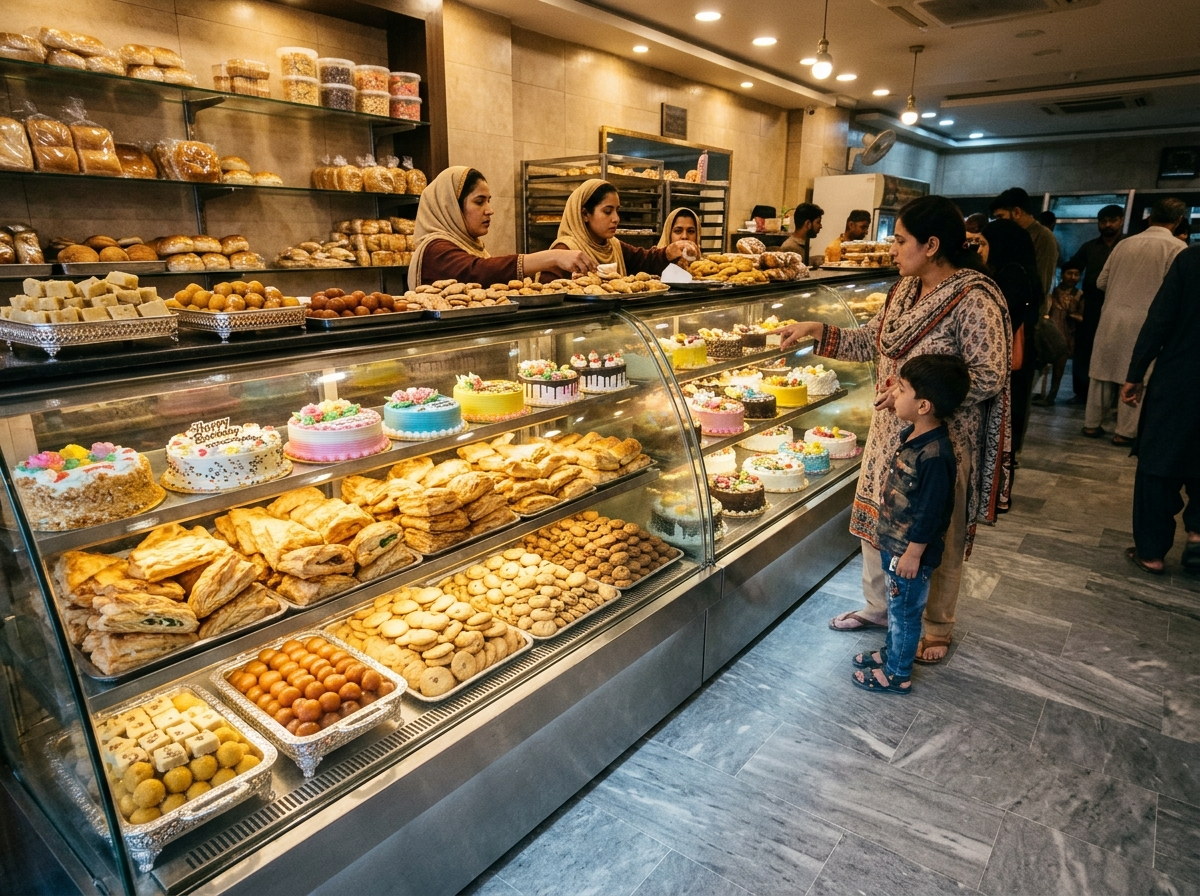
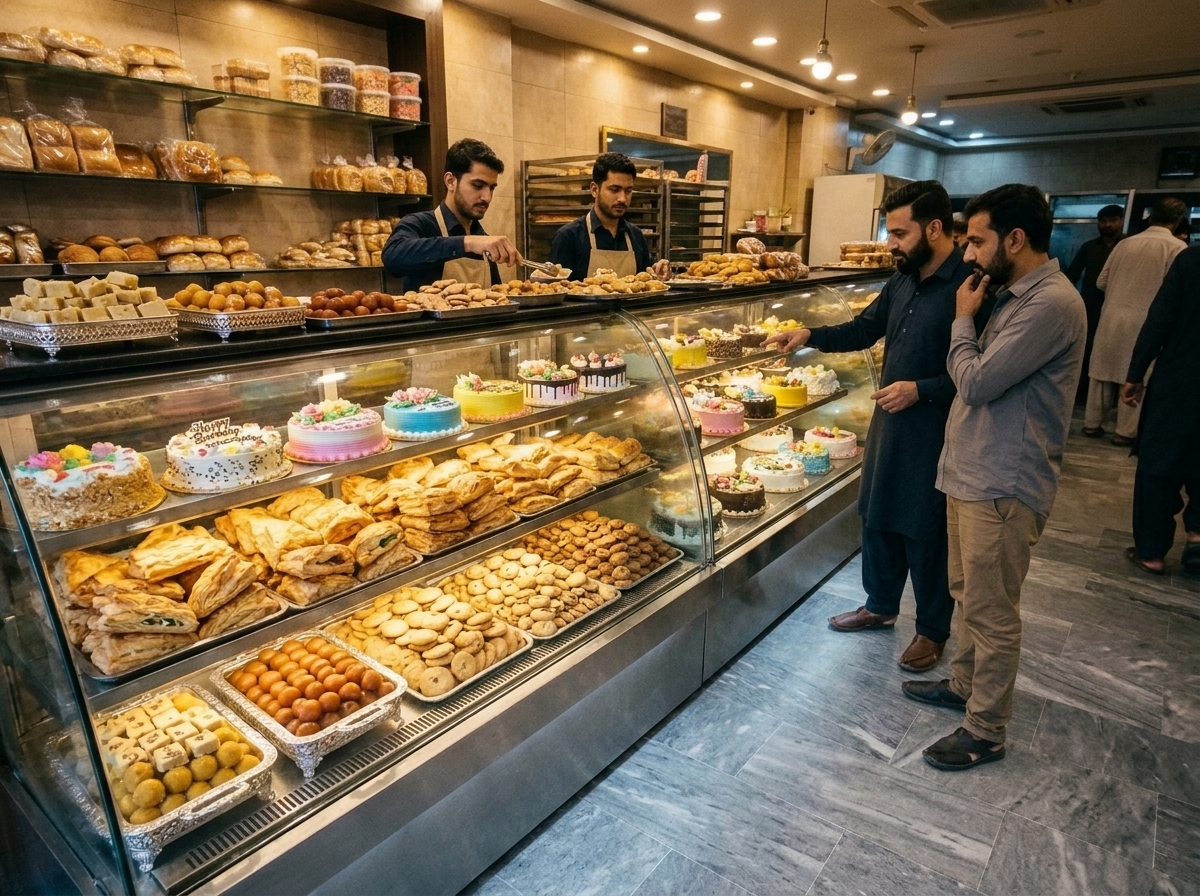
feat: update business information and contact details
- Update business address to include "Lari Ada"
- Add secondary telephone contact
- Enhance business description with historical context
- Update hero image and Google Maps URL

diff --git a/src/App.tsx b/src/App.tsx
@@ -352,7 +352,7 @@ export default function App() {
                     <ArrowRight className="w-4 h-4" aria-hidden="true" />
                   </a>
                   <a
-                    href={`tel:${BAKERY_INFO.whatsappDigits}`}
+                    href={`tel:+${BAKERY_INFO.whatsappDigits}`}
                     className="inline-flex items-center gap-2 bg-white dark:bg-[#1D1916] hover:bg-[#F3F1ED] dark:hover:bg-[#26211D] text-[#1C1815] dark:text-[#F5F2EC] border border-[#E5E1DA] dark:border-[#342D28] text-sm font-medium px-5 py-3 rounded-lg transition-colors duration-150 whitespace-nowrap shrink-0"
                   >
                     <Phone className="w-4 h-4 text-[#1B4332] dark:text-[#74C69D]" aria-hidden="true" />
@@ -372,25 +372,25 @@ export default function App() {
 
             <div className="mt-10 pt-8 border-t border-[#E5E1DA] dark:border-[#342D28] grid grid-cols-1 sm:grid-cols-2 lg:grid-cols-4 gap-6">
               <div>
-                <p className="text-xs font-medium text-[#57534E] dark:text-[#D6D3D1]">Daily Schedule</p>
+                <p className="text-xs font-medium text-[#57534E] dark:text-[#D6D3D1]">Sialkot Heritage</p>
                 <p className="text-sm font-semibold text-[#1C1815] dark:text-[#F5F2EC] mt-1">
-                  Fresh Batches All Day
+                  30+ Years · Three Decades Old Name
                 </p>
               </div>
               <div>
-                <p className="text-xs font-medium text-[#57534E] dark:text-[#D6D3D1]">Fulfillment</p>
+                <p className="text-xs font-medium text-[#57534E] dark:text-[#D6D3D1]">Direct Ordering</p>
                 <p className="text-sm font-semibold text-[#1C1815] dark:text-[#F5F2EC] mt-1">
-                  Takeout &amp; Sialkot Delivery
+                  WhatsApp Direct · Zero App Markup
                 </p>
               </div>
               <div>
-                <p className="text-xs font-medium text-[#57534E] dark:text-[#D6D3D1]">Popular Specialties</p>
+                <p className="text-xs font-medium text-[#57534E] dark:text-[#D6D3D1]">Location Landmark</p>
                 <p className="text-sm font-semibold text-[#1C1815] dark:text-[#F5F2EC] mt-1">
-                  Cakes, Rusk, Halwa Puri &amp; Pizza
+                  Lari Ada, Kashmir Road, Sialkot
                 </p>
               </div>
               <div>
-                <p className="text-xs font-medium text-[#57534E] dark:text-[#D6D3D1]">Direct WhatsApp Desk</p>
+                <p className="text-xs font-medium text-[#57534E] dark:text-[#D6D3D1]">Direct Phone &amp; WhatsApp</p>
                 <p className="text-sm font-semibold text-[#1C1815] dark:text-[#F5F2EC] mt-1 tabular-nums">
                   {BAKERY_INFO.phoneDisplay}
                 </p>
@@ -623,15 +623,15 @@ export default function App() {
               <div className="lg:col-span-7 flex flex-col justify-center gap-6">
                 <div className="space-y-2">
                   <p className="text-xs font-medium text-[#1B4332] dark:text-[#74C69D]">
-                    Daily Kitchen &amp; Bakery Craft · Kotli Behram
+                    About Hot Cake Bakers · Three Decades in Sialkot
                   </p>
                   <h2 className="font-display text-3xl font-semibold text-[#1C1815] dark:text-[#F5F2EC] text-balance">
-                    From morning Halwa Puri to midnight celebrations.
+                    A three-decades-old Sialkot bakery name on Kashmir Road.
                   </h2>
                 </div>
 
                 <p className="text-base text-[#44403C] dark:text-[#D6D3D1] leading-relaxed">
-                  Situated on Kashmir Road near Lari Adda in Kotli Behram, Hot Cake Bakers pairs traditional Sialkoti breakfast and mithai craftsmanship with fresh evening baking for takeout and home delivery.
+                  Serving families around Lari Ada, Kashmir Road, and Kotli Behram for over 30 years, Hot Cake Bakers pairs traditional Sialkoti breakfast and pure khoya mithai with freshly baked cakes, pastries, and savories. Order directly via WhatsApp with zero third-party app markups for counter pickup or Sialkot delivery—alongside our active Foodpanda storefront.
                 </p>
 
                 <div className="flex flex-wrap items-center gap-3 pt-1">
@@ -678,12 +678,12 @@ export default function App() {
                   Visit Our Bakery
                 </p>
                 <h2 className="font-display text-3xl font-semibold text-[#1C1815] dark:text-[#F5F2EC] mt-1 text-balance">
-                  Kashmir Road, Kotli Behram, Sialkot
+                  Lari Ada, Kashmir Road, Sialkot
                 </h2>
               </div>
 
               <p className="text-sm text-[#44403C] dark:text-[#D6D3D1] leading-relaxed">
-                Located near Lari Adda on Main Kashmir Road, Sialkot. Stop by for fresh counter takeout, morning Halwa Puri, or custom celebration cakes.
+                Located at Lari Ada on Main Kashmir Road, Kotli Behram, Sialkot (also listed on Waze &amp; Foodpanda). Stop by for fresh counter takeout, morning Halwa Puri, or custom celebration cakes.
               </p>
 
               <ul className="space-y-3 text-sm text-[#1C1815] dark:text-[#F5F2EC] pt-2 border-t border-[#E5E1DA] dark:border-[#342D28]">
@@ -702,7 +702,22 @@ export default function App() {
                 <li className="flex items-start gap-2.5">
                   <Phone className="w-4 h-4 text-[#1B4332] dark:text-[#74C69D] shrink-0 mt-0.5" aria-hidden="true" />
                   <span className="tabular-nums">
-                    <strong className="font-semibold">Phone / WhatsApp:</strong> {BAKERY_INFO.phoneDisplay}
+                    <strong className="font-semibold">Phone / WhatsApp:</strong>{' '}
+                    <a
+                      href={`tel:+${BAKERY_INFO.whatsappDigits}`}
+                      className="hover:underline underline-offset-4"
+                    >
+                      {BAKERY_INFO.phoneDisplay}
+                    </a>
+                    <span aria-hidden="true" className="mx-2 text-[#57534E] dark:text-[#A8A29E]">
+                      ·
+                    </span>
+                    <a
+                      href={`tel:+${BAKERY_INFO.secondaryPhoneDigits}`}
+                      className="hover:underline underline-offset-4"
+                    >
+                      {BAKERY_INFO.secondaryPhoneDisplay}
+                    </a>
                   </span>
                 </li>
               </ul>
@@ -718,11 +733,18 @@ export default function App() {
                   <ExternalLink className="w-4 h-4" aria-hidden="true" />
                 </a>
                 <a
-                  href={`tel:${BAKERY_INFO.whatsappDigits}`}
-                  className="inline-flex items-center gap-2 bg-white dark:bg-[#1D1916] hover:bg-[#F3F1ED] dark:hover:bg-[#26211D] text-[#1C1815] dark:text-[#F5F2EC] border border-[#E5E1DA] dark:border-[#342D28] text-sm font-medium px-5 py-2.5 rounded-lg transition-colors whitespace-nowrap"
+                  href={`tel:+${BAKERY_INFO.whatsappDigits}`}
+                  className="inline-flex items-center gap-2 bg-white dark:bg-[#1D1916] hover:bg-[#F3F1ED] dark:hover:bg-[#26211D] text-[#1C1815] dark:text-[#F5F2EC] border border-[#E5E1DA] dark:border-[#342D28] text-sm font-medium px-4 py-2.5 rounded-lg transition-colors whitespace-nowrap"
                 >
                   <Phone className="w-4 h-4 text-[#1B4332] dark:text-[#74C69D]" aria-hidden="true" />
-                  <span className="tabular-nums">Call {BAKERY_INFO.phoneDisplay}</span>
+                  <span className="tabular-nums">{BAKERY_INFO.phoneDisplay}</span>
+                </a>
+                <a
+                  href={`tel:+${BAKERY_INFO.secondaryPhoneDigits}`}
+                  className="inline-flex items-center gap-2 bg-white dark:bg-[#1D1916] hover:bg-[#F3F1ED] dark:hover:bg-[#26211D] text-[#1C1815] dark:text-[#F5F2EC] border border-[#E5E1DA] dark:border-[#342D28] text-sm font-medium px-4 py-2.5 rounded-lg transition-colors whitespace-nowrap"
+                >
+                  <Phone className="w-4 h-4 text-[#1B4332] dark:text-[#74C69D]" aria-hidden="true" />
+                  <span className="tabular-nums">{BAKERY_INFO.secondaryPhoneDisplay}</span>
                 </a>
               </div>
             </div>
@@ -730,7 +752,7 @@ export default function App() {
             <div className="w-full h-80 rounded-xl overflow-hidden shadow-xs border border-[#E5E1DA] dark:border-[#342D28] bg-[#F3F1ED] dark:bg-[#26211D]">
               <iframe
                 title="Hot Cake Bakers Kashmir Road Sialkot Location Map"
-                src="https://maps.google.com/maps?q=Kashmir%20Road%20Kotli%20Behram%20Sialkot&t=&z=15&ie=UTF8&iwloc=&output=embed"
+                src="https://maps.google.com/maps?q=Hot%20Cake%20Bakers%20Lari%20Ada%20Kashmir%20Road%20Sialkot&t=&z=15&ie=UTF8&iwloc=&output=embed"
                 className="w-full h-full border-0 dark:brightness-90 dark:contrast-110"
                 loading="lazy"
                 referrerPolicy="no-referrer-when-downgrade"
@@ -750,8 +772,15 @@ export default function App() {
                 {BAKERY_INFO.urduName}
               </span>
             </p>
-            <p className="text-xs font-medium text-[#57534E] dark:text-[#D6D3D1]">
-              {BAKERY_INFO.address} · {BAKERY_INFO.shortHours} · {BAKERY_INFO.phoneDisplay}
+            <p className="text-xs font-medium text-[#57534E] dark:text-[#D6D3D1] tabular-nums">
+              {BAKERY_INFO.address} · {BAKERY_INFO.shortHours} ·{' '}
+              <a href={`tel:+${BAKERY_INFO.whatsappDigits}`} className="hover:underline underline-offset-2">
+                {BAKERY_INFO.phoneDisplay}
+              </a>
+              {' / '}
+              <a href={`tel:+${BAKERY_INFO.secondaryPhoneDigits}`} className="hover:underline underline-offset-2">
+                {BAKERY_INFO.secondaryPhoneDisplay}
+              </a>
             </p>
           </div>
 

diff --git a/src/data/menuData.ts b/src/data/menuData.ts
@@ -10,16 +10,18 @@ import chickenPizzaImg from '../assets/images/product_chicken_pizza_179455754610
 import fajitaPizzaImg from '../assets/images/product_fajita_pizza_1794567027328.jpg';
 import traditionalSweetsImg from '../assets/images/product_traditional_sweets_1794557547576.jpg';
 import barfiJamunImg from '../assets/images/product_barfi_jamun_1794567029380.jpg';
-import heroBakerySpreadImg from '../assets/images/hero_bakery_spread_1794567031602.jpg';
+import heroBakerySpreadImg from '../assets/images/hero_bakery_counter_men_1794576396280.jpg';
 
 import { MenuCategory, MenuItem } from '../types/bakery';
 
 export const BAKERY_INFO = {
   name: 'Hot Cake Bakers',
   urduName: 'ہاٹ کیک بیکرز، لاڑی اڈا',
-  address: 'Kashmir Road, Kotli Behram, Sialkot, 51310',
+  address: 'Lari Ada, Kashmir Road, Kotli Behram, Sialkot, 51310',
   phoneDisplay: '+92 341 9347002',
   whatsappDigits: '923419347002',
+  secondaryPhoneDisplay: '+92 320 0172727',
+  secondaryPhoneDigits: '923200172727',
   hoursDisplay: '7:00 AM – 1:30 AM Daily',
   shortHours: 'Open till 1:30 AM',
   services: 'Takeout & Delivery',
@@ -28,7 +30,7 @@ export const BAKERY_INFO = {
   heroImage: heroBakerySpreadImg,
   secondaryShowcaseImage: heroBakerySpreadImg,
   googleMapsUrl:
-    'https://www.google.com/maps/search/?api=1&query=Hot+Cake+Bakers+Kashmir+Road+Kotli+Behram+Sialkot+51310',
+    'https://www.google.com/maps/search/?api=1&query=Hot+Cake+Bakers+Lari+Ada+Kashmir+Road+Kotli+Behram+Sialkot+51310',
 } as const;
 
 export interface HeroSlide {

diff --git a/index.html b/index.html
@@ -33,15 +33,15 @@
         "@type": ["Bakery", "LocalBusiness"],
         "name": "Hot Cake Bakers",
         "alternateName": "ہاٹ کیک بیکرز، لاڑی اڈا",
-        "description": "Fresh cakes, pastries, cake rusk, halwa puri breakfast, chicken samosas, pizza, and traditional mithai on Kashmir Road, Sialkot.",
-        "telephone": "+92-341-9347002",
+        "description": "A three-decades-old Sialkot bakery serving fresh cakes, pastries, cake rusk, halwa puri breakfast, chicken samosas, pizza, and traditional mithai at Lari Ada, Kashmir Road.",
+        "telephone": ["+92-341-9347002", "+92-320-0172727"],
         "priceRange": "Rs. 420 – Rs. 4,100",
         "servesCuisine": ["Pakistani Bakery", "Cakes & Pastries", "Desi Breakfast", "Pizza", "Mithai"],
         "image": "/og-image.jpg",
         "hasMenu": "#menu",
         "address": {
           "@type": "PostalAddress",
-          "streetAddress": "GG6C+JPM, Kashmir Road, Kotli Behram",
+          "streetAddress": "GG6C+JPM, Lari Ada, Kashmir Road, Kotli Behram",
           "addressLocality": "Sialkot",
           "postalCode": "51310",
           "addressCountry": "PK"
